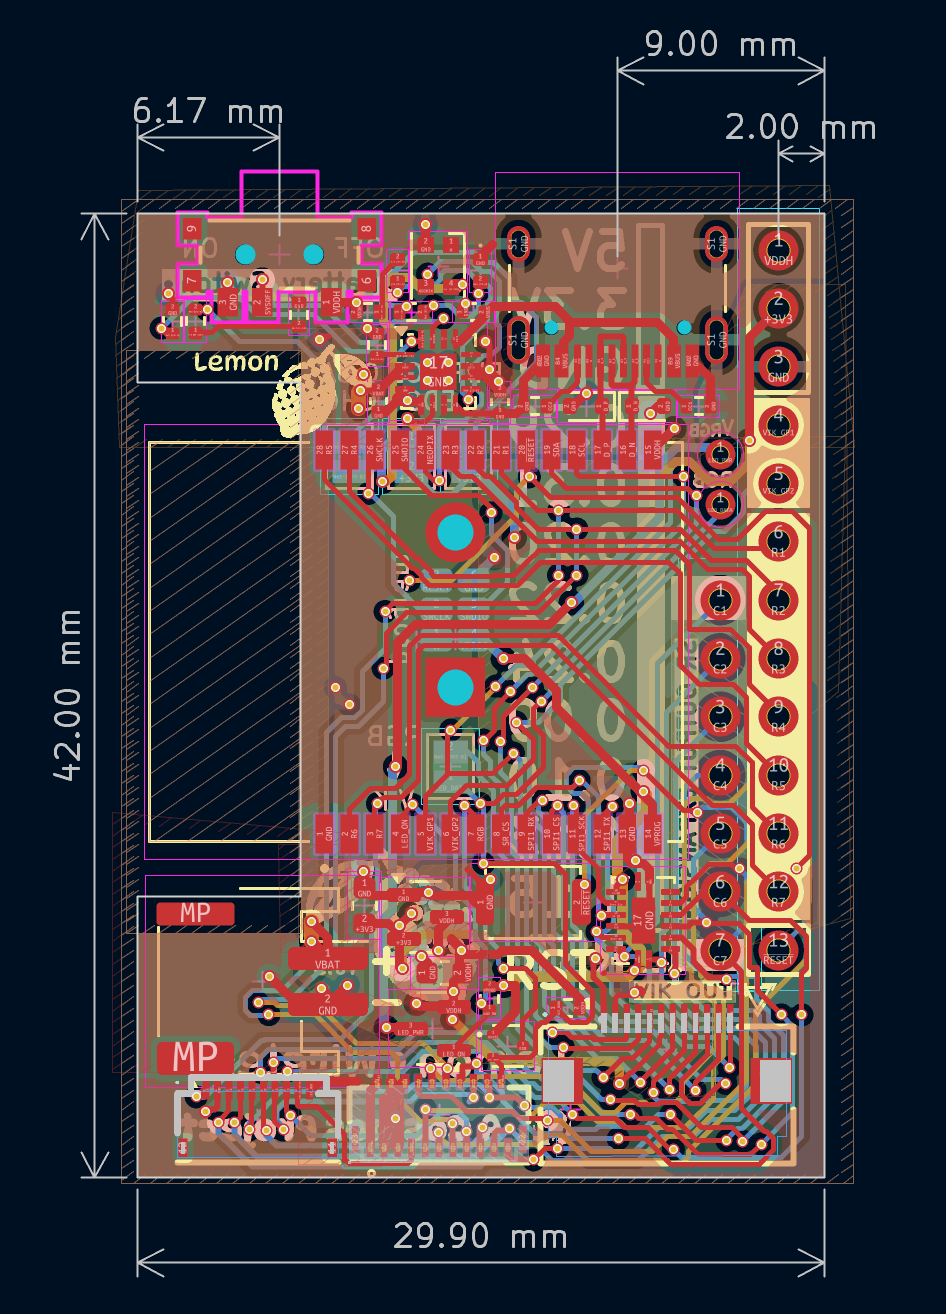
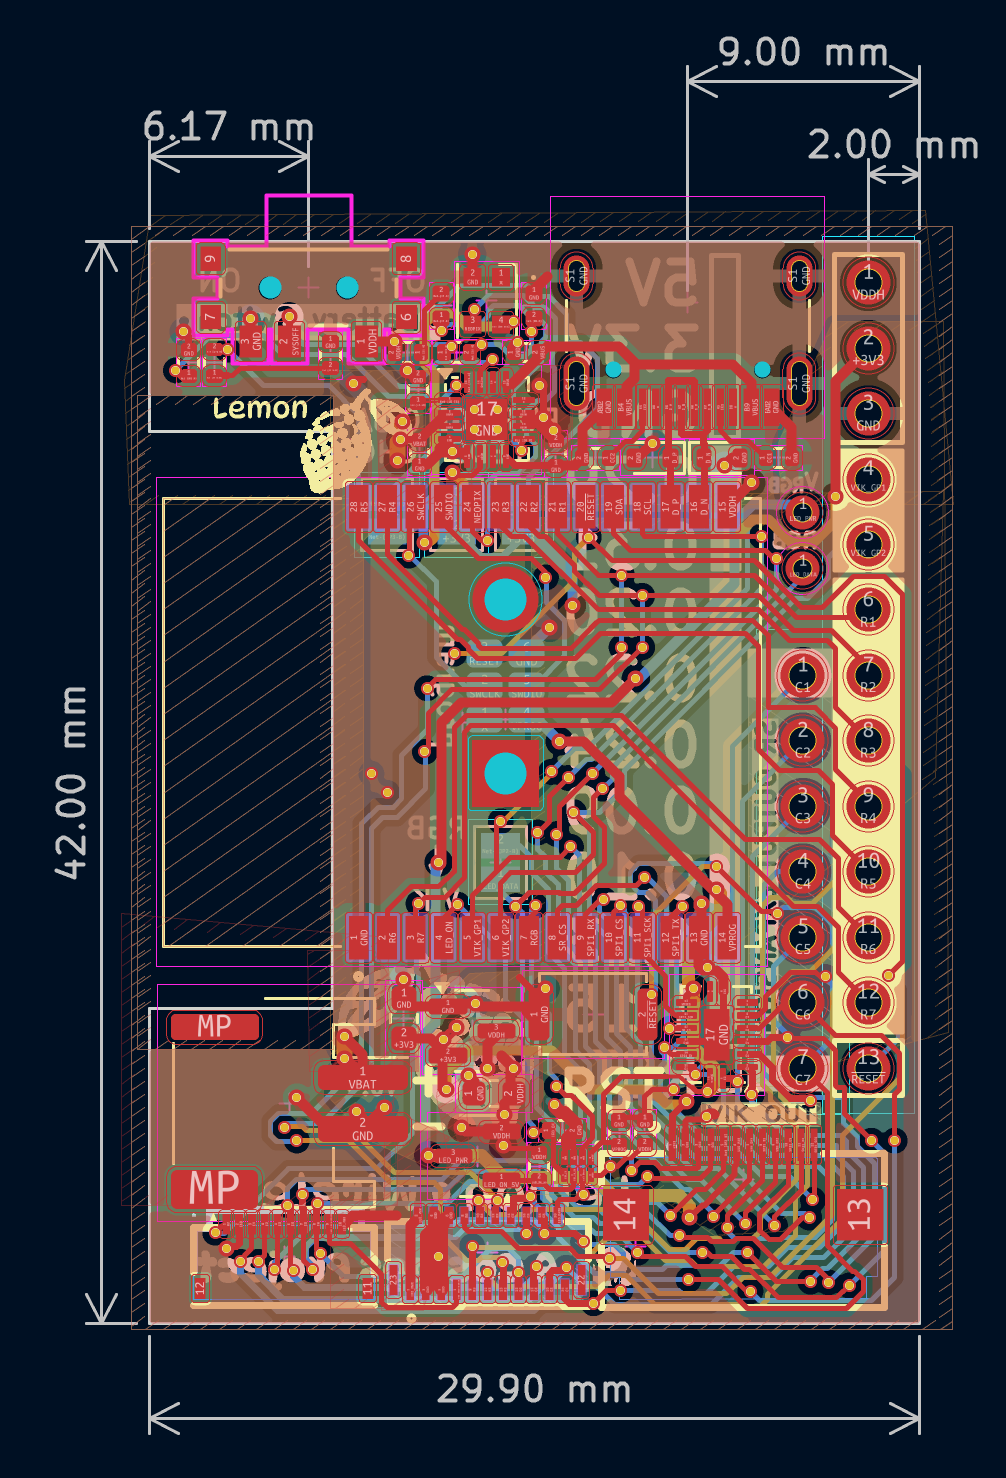
Update Lemon Wireless Docs for v0.4

diff --git a/docs/docs/pcbs/lemon-wireless.md b/docs/docs/pcbs/lemon-wireless.md
@@ -2,7 +2,9 @@
 
 !!! info "What's with the Resistors?"
 
-    On recent shipments of Lemon Wireless v0.3 I've begun including 5.1kΩ resistors. They're required if you're planning on using RGB LEDs with the microcontroller. See the [LEDs section of the troubleshooting guide](#leds-not-working-fix-for-v03-or-earlier) for more details.
+    On recent shipments of Lemon Wireless v0.3 I included 5.1kΩ resistors. They're required if you're planning on using RGB LEDs with the microcontroller. See the [LEDs section of the troubleshooting guide](#leds-not-working-fix-for-v03-or-earlier) for more details.
+
+    On Lemon Wireless v0.4 I fixed the root problem, so resistors are no longer needed.
 
 The Lemon Wireless is an nRF52840-based microcontroller for split keyboards with a USB-C port, power switch, JST battery connector, a VIK connector, and two FPC connectors for connecting column-flex PCBs. If you use column-flex PCBs and VIK-compatible peripherals, it's possible to build a wireless split keyboard without soldering any wires!
 
@@ -132,7 +134,7 @@ The best example of using ZMK on the Lemon microcontroller will for now probably
   ```yaml
   ---
   include:
-    - board: cosmos_lemon_wireless
+    - board: cosmos_lemon_wireless # or cosmos_lemon_wireless_v4
       shield: <YOUR_KEYBOARD> vik_cirque_spi
   ```
 
@@ -161,7 +163,7 @@ These are all taken care of if you autogenerate your firmware with Cosmos, but t
 
    Once I upstream the changes you can change `#!yaml remote: rianadon` to `#!yaml remote: zmkfirmware`.
 
-2. Your `build.yaml` should specify `#!yaml board: cosmos_lemon_wireless`. If you are building from the command line, use `west build -b cosmos_lemon_wireless`...
+2. Your `build.yaml` should specify `#!yaml board: cosmos_lemon_wireless` for v0.3 and earlier or `#!yaml board: cosmos_lemon_wireless_v4` for v0.4. If you are building from the command line, use `west build -b cosmos_lemon_wireless`...
 
 3. You MUST use `diode-direction = "col2row"` when configuring `kscan`, even if your diodes are connected in ROW2COL fashion. This is because `diode-direction` secretly configures whether the columns are the outputs or inputs when scanning. Because the Lemon Wireless uses a shift register to drive the columns, they can only be outputs. To use ROW2COL, use `diode-direction = "col2row"` together with row GPIOs configured as `GPIO_ACTIVE_LOW | GPIO_PULL_UP` and column GPIOS configured as `GPIO_ACTIVE_LOW`. See [this example for ROW2COL](https://github.com/rianadon/peaMK/blob/main/zmk/boards/shields/peamk/peamk_r2c.dtsi) and [this example for COL2ROW](https://github.com/rianadon/peaMK/blob/main/zmk/boards/shields/peamk/peamk_c2r.dtsi)
 
@@ -449,6 +451,27 @@ If you get flashing LEDs with this method, the more foolproof fix is to remove t
 ![PCB Layout for Wireless Lemon](../../assets/lemon-wireless-layout.png){ width=500 .center }
 
 Fun fact: The Wireless Lemon is the first, and hopefully last, 4-layer PCB I've made for Cosmos! These things aren't cheap to make.
+
+## Revision History
+
+**v0.4: LED Fix**
+
+- Replaced the LED level shifting with new design and parts
+- The LED power enable pin (P0.02) switched from active-low to active-high logic
+- Replaced VDDH on VIK connector with VRGB
+- Switched a lot of parts to different manufacturers, but footprints are all the same
+
+**v0.3: Refactor**
+
+- The first one I mass manufactured
+- Changed pin assignments so that there is some order to the matrix mapping
+- Added extra pins for VRGB and RGB data
+- Switched to ENIG in production
+
+**v0.2: Public Release!**
+
+- The first Wireless Lemon I started distributing
+- Most likely a depreciating asset, but it might be worth millions one day
 
 ## Further Documentation
 
